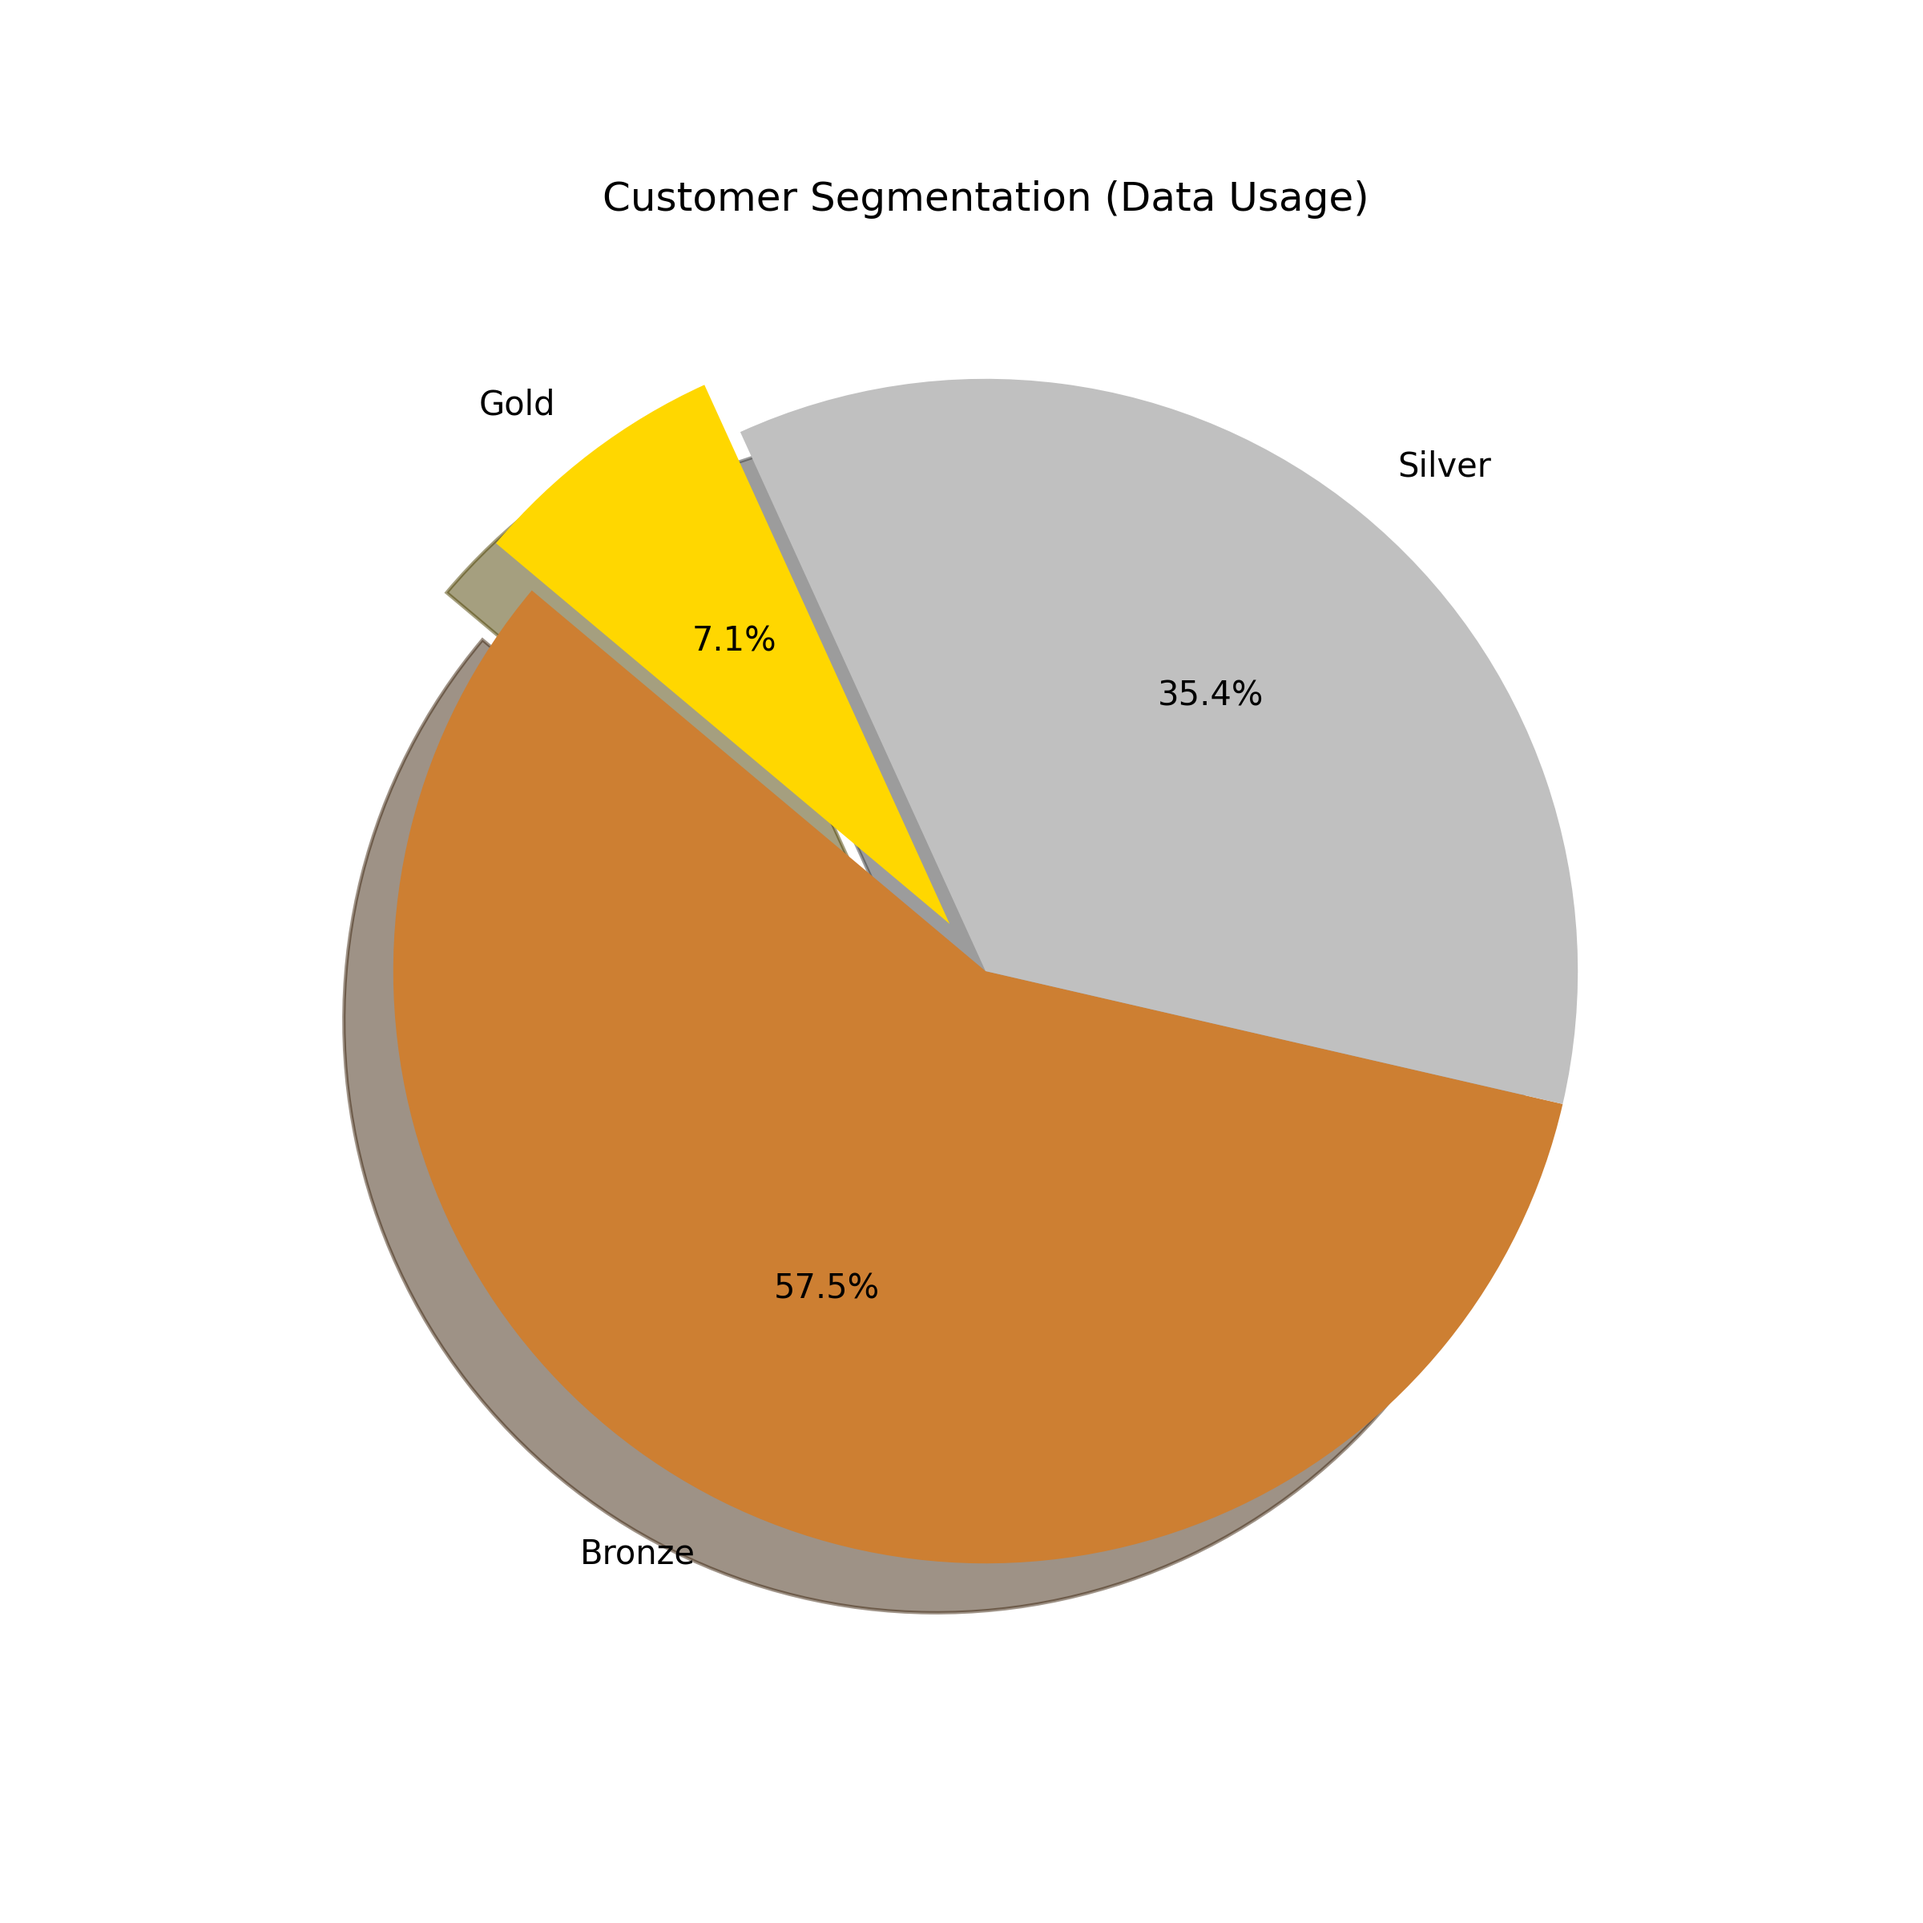
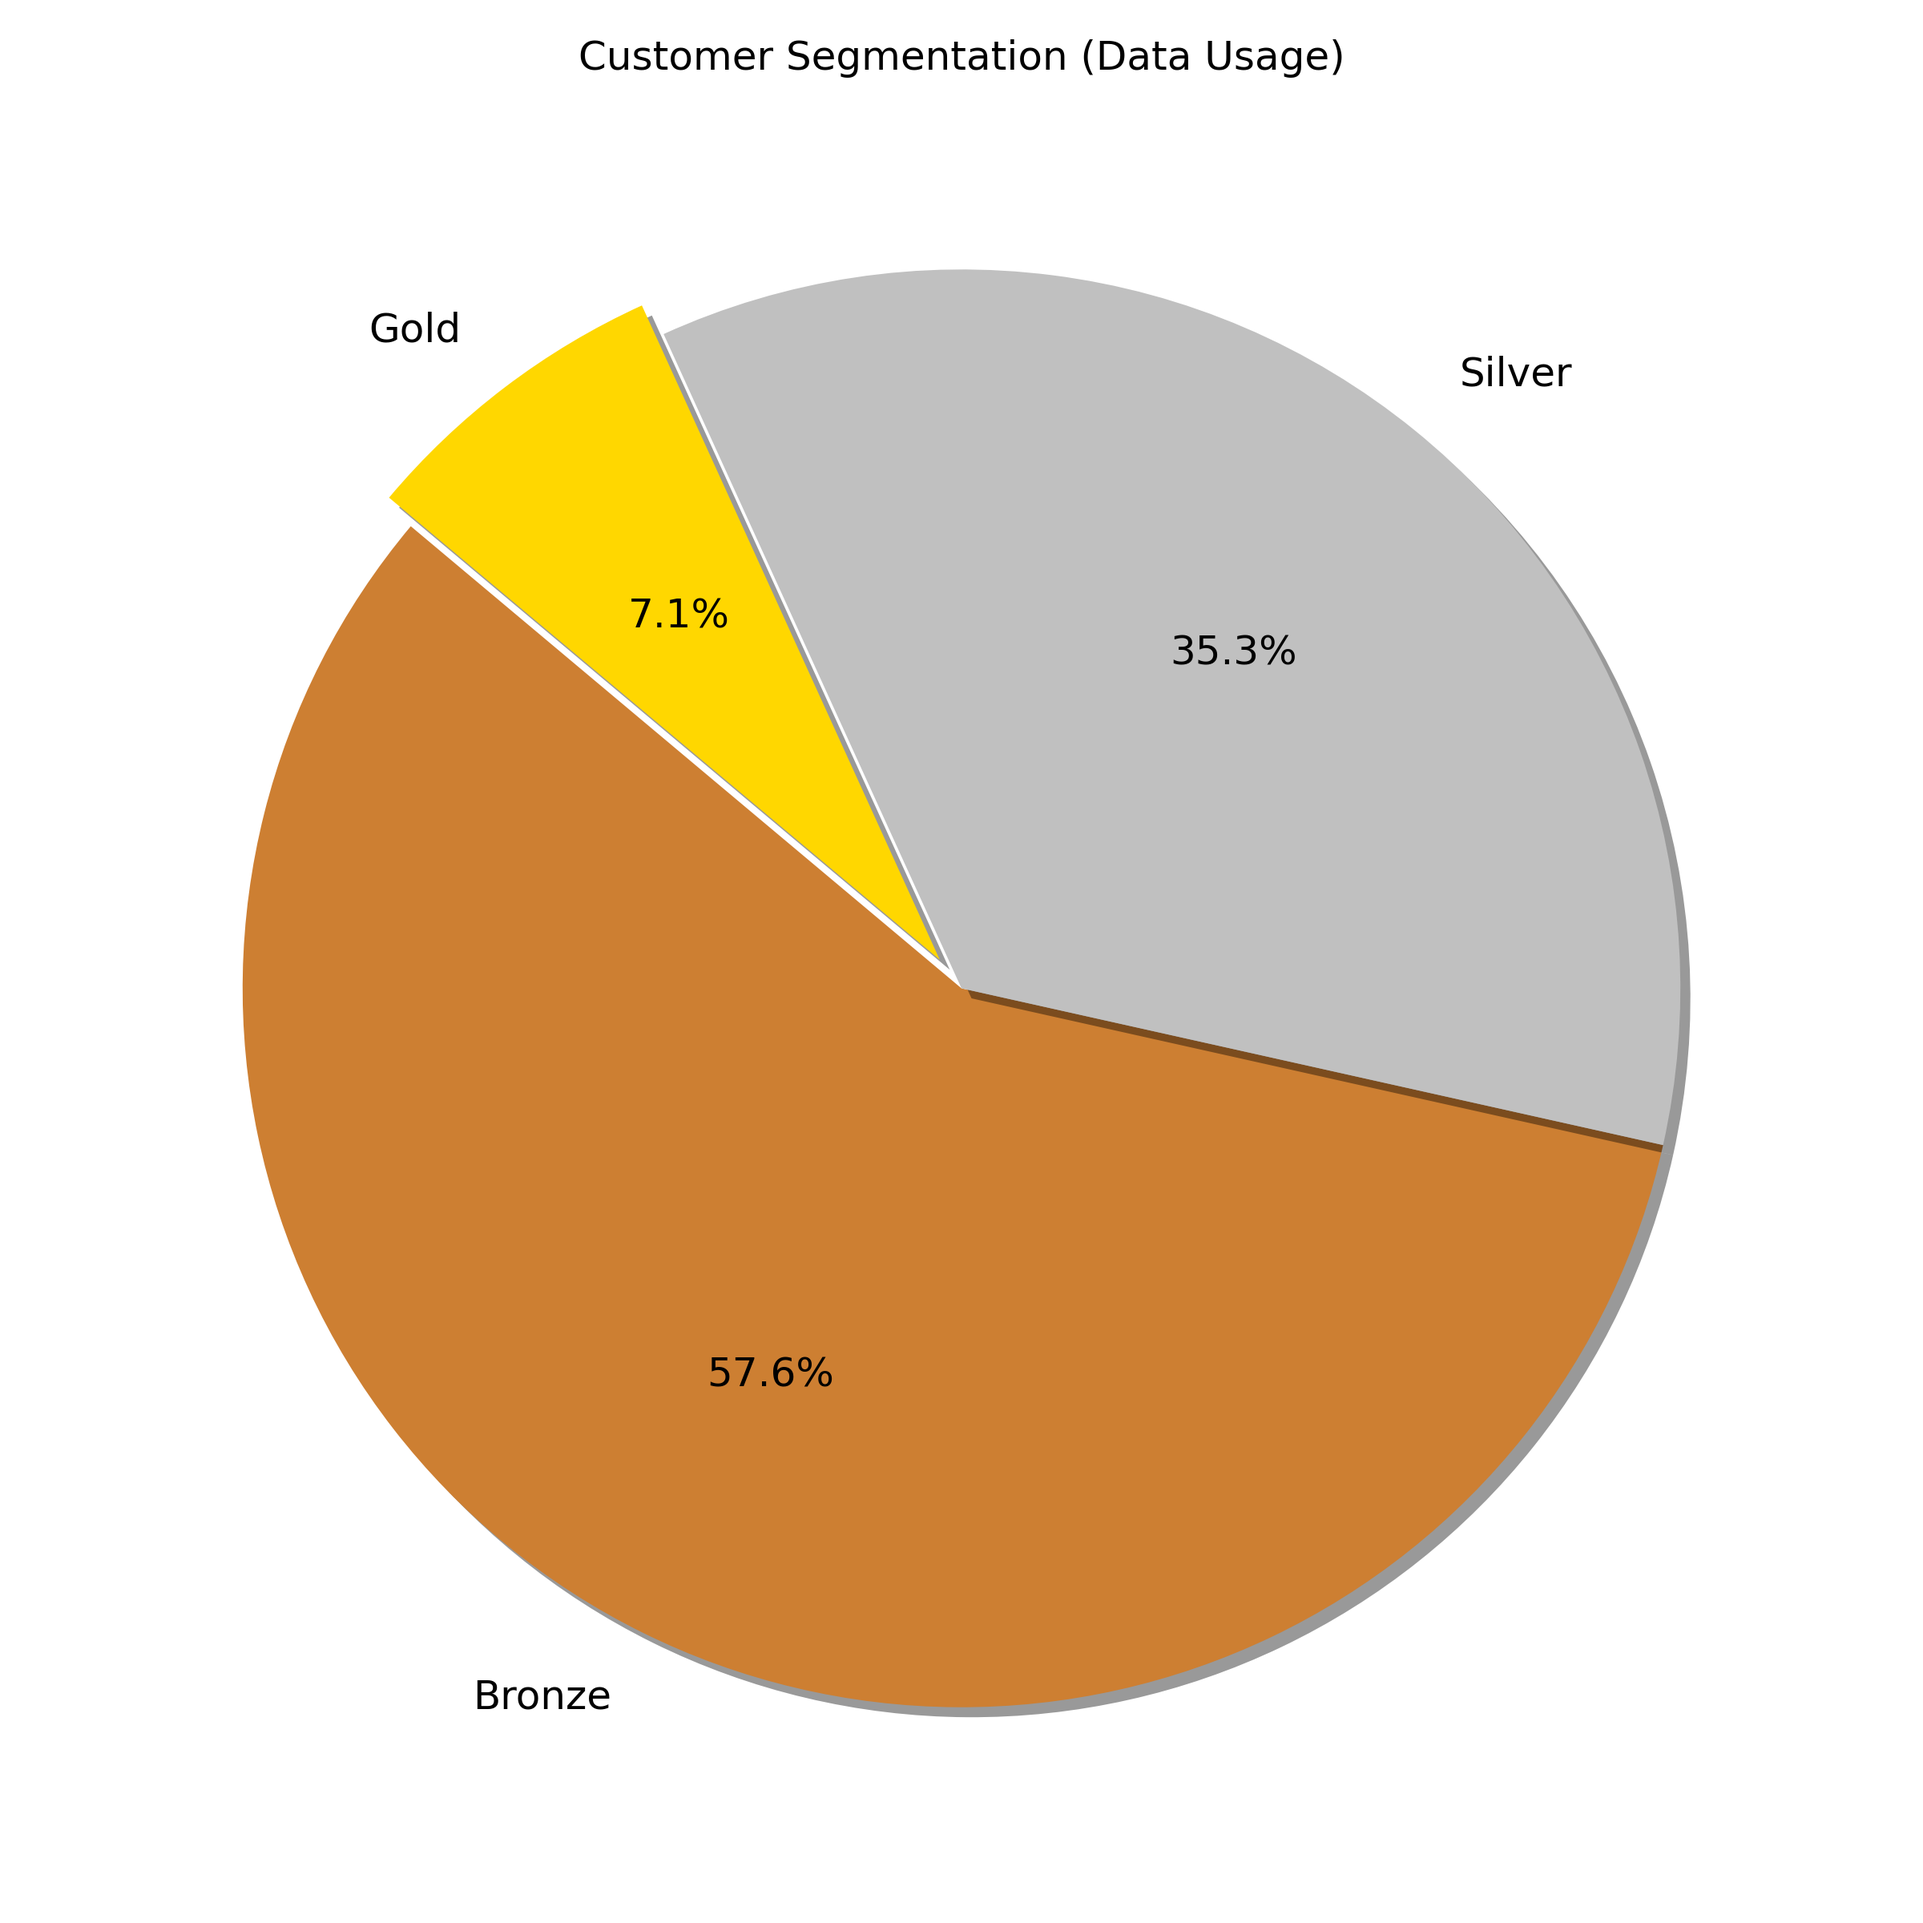
Final version with ignore rules

diff --git a/main.py b/main.py
@@ -1,7 +1,7 @@
 import pandas as pd
 import matplotlib.pyplot as plt
 import matplotlib.ticker as mticker
-import time
+import matplotlib.patheffects as path_effects
 import numpy as np
 
 RED = '\033[91m'
@@ -27,6 +27,7 @@ def clean_data(df):
     initial_count = len(df)
     df_clean = df.dropna()
     print(f"Removed {initial_count - len(df_clean)} rows with empty data.")
+
     df_negative_zero = df_clean[df_clean['Duration'] <= 0]
     df_clean = df_clean[df_clean['Duration'] > 0]
     print(f"Removed {len(df_negative_zero)} records with negative or zero duration seconds.")
@@ -54,7 +55,7 @@ def analyze_data(df):
 
     # --- اصلاح مهم: حذف Locator ثابت و استفاده از Formatter هوشمند ---
     # این تابع اعداد محور عمودی را کوتاه میکند (مثلاً 1000000 را تبدیل به 1M میکند)
-    ax.yaxis.set_major_formatter(mticker.FuncFormatter(lambda x,pos: f'{x*1e-6:.0f}M'))
+    ax.yaxis.set_major_formatter(mticker.FuncFormatter(lambda x, pos: f'{x * 1e-6:.0f}M'))
     # خط زیر حذف شد چون باعث کرش سیستم در دادههای میلیونی میشد:
     # ax.yaxis.set_major_locator(mticker.MultipleLocator(50000))
     ax.yaxis.set_major_locator(mticker.MultipleLocator(5000000))
@@ -99,9 +100,10 @@ def analyze_peak_hours(df):
 
     busy_hour = hourly_traffic.idxmax()
     max_calls = hourly_traffic.max()
+    min_calls = hourly_traffic.min()
 
-    print(f"📈 Busiest Hour of the day: {RED}{busy_hour}:00 to {busy_hour + 1}:00{END}")
-    print(f"   Total calls in this hour: {max_calls}")
+    print(f"📈 Busiest Hour: {RED}{busy_hour}:00{END} (Calls: {max_calls})")
+    print(f"📉 Quietest Hour: {min_calls} calls")
 
     print("Drawing traffic chart...")
     plt.figure(figsize=(10, 6))
@@ -110,9 +112,14 @@ def analyze_peak_hours(df):
     plt.title('Network Traffic by Hour (24h) - 1 Million Records')
     plt.xlabel('Hour of Day (0-23)')
     plt.ylabel('Number of Calls')
-    plt.ylim(bottom=40000)
 
-    # فرمتدهی محور Y برای تعداد تماسهای زیاد (مثلاً 40K)
+    data_range = max_calls - min_calls
+    if data_range > 0:
+        dynamic_bottom = max(0, min_calls - (data_range * 0.2))
+        plt.ylim(bottom=dynamic_bottom)
+    else:
+        plt.ylim(bottom=0)
+
     plt.gca().yaxis.set_major_formatter(mticker.StrMethodFormatter('{x:,.0f}'))
 
     plt.grid(True, linestyle='--', alpha=0.7)
@@ -139,27 +146,44 @@ def segment_customers(df):
     df['Segment'] = np.select(conditions, labels, default='Unknown')
     segment_counts = df['Segment'].value_counts()
 
-    print("Customer Segments Breakdown:")
-    print(segment_counts)
-
+    # رنگهای ملایمتر و مدرنتر
     color_map = {
-        'Gold': '#FFD700',  # کد دقیق رنگ Gold استاندارد
-        'Silver': '#C0C0C0',  # کد دقیق رنگ Silver استاندارد
-        'Bronze': '#CD7F32'  # کد رنگ برنزی (که اسم ندارد)
+        'Gold': '#FFD700',  # طلایی
+        'Silver': '#C0C0C0',  # نقرهای
+        'Bronze': '#CD7F32'  # برنزی
     }
+    safe_colors = [color_map.get(label, 'grey') for label in segment_counts.index]
 
-    safe_colors = [color_map[label] for label in segment_counts.index]
+    # برجستهسازی Gold
+    explode = [0.05 if label == 'Gold' else 0 for label in segment_counts.index]
 
     print("Drawing segmentation chart...")
     plt.figure(figsize=(8, 8))
-    explode = [0.1 if label == 'Gold' else 0 for label in segment_counts.index]
 
-    segment_counts.plot(kind='pie', autopct='%1.1f%%', startangle=140,
-                        colors=safe_colors, explode=explode, shadow=True)
+    # نکته ۱: shadow=False میکنیم چون میخواهیم سایه دستی بسازیم
+    wedges, texts, autotexts = plt.pie(
+        segment_counts,
+        labels=segment_counts.index,
+        autopct='%1.1f%%',
+        startangle=140,
+        colors=safe_colors,
+        explode=explode,
+        shadow=False,  # سایه پیشفرض را خاموش کنید
+        textprops={'fontsize': 12}
+    )
+
+    # نکته ۲: اضافه کردن سایه دستی و نرم به هر تکه (Wedge)
+    for w in wedges:
+        w.set_path_effects([
+            path_effects.SimplePatchShadow(offset=(3, -3), alpha=0.4, shadow_rgbFace='black'),
+            path_effects.Normal()
+        ])
 
     plt.title('Customer Segmentation (Data Usage)')
     plt.ylabel('')
-    plt.savefig('customer_segment.png', dpi=300)  # ذخیره با کیفیت بالا
+
+    plt.tight_layout()
+    plt.savefig('customer_segment.png', dpi=300)
     print(f"{GREEN}   -> Chart saved as 'customer_segment.png'{END}")
     plt.show()
 
@@ -167,17 +191,21 @@ def segment_customers(df):
 if __name__ == "__main__":
     print(f'\n{RED}--- START PROGRAM ---{END}\n')
     print(f"Processing File: {InputFile}...")
-    start_time = time.time()
 
     try:
         raw_data = load_data(InputFile)
-        clean_dataframe = clean_data(raw_data)
-        analyze_data(clean_dataframe)
-        detect_fraud(clean_dataframe)
-        analyze_peak_hours(clean_dataframe)
-        segment_customers(clean_dataframe)
 
-        print(f"\n✅{ITALIC} All analysis completed successfully.{END}")
+        if raw_data is not None:
+            clean_dataframe = clean_data(raw_data)
+            analyze_data(clean_dataframe)
+            detect_fraud(clean_dataframe)
+            analyze_peak_hours(clean_dataframe)
+            segment_customers(clean_dataframe)
+
+            print(f"\n✅{ITALIC} All analysis completed successfully.{END}")
+        else:
+            print(f"\n❌{RED} Execution stopped: Input file is missing.{END}")
+            print(f"   Please run 'data_generator.py' first.")
 
     except Exception as e:
         print(f"\n❌{RED} Critical Error: {e}{END}")

diff --git a/data_generator.py b/data_generator.py
@@ -1,6 +1,5 @@
 import pandas as pd
 import numpy as np
-import random
 from datetime import datetime, timedelta
 
 RED = '\033[91m'
@@ -9,45 +8,55 @@ ITALIC = '\033[3m'
 END = '\033[0m'
 
 
-def generate_large_dataset(filename, num_records=10000):
+def generate_large_dataset(filename, num_records=1000000):
     print(f"\n--- {RED}Starting data generation for {num_records} records ---{END}")
 
     end_date = datetime.now()
     start_date = end_date - timedelta(days=30)
 
-    date_list = []
-    for _ in range(num_records):
-        random_days = random.randint(0, 30)
-        random_seconds = random.randint(0, 86400)
-        random_date = start_date + timedelta(days=random_days, seconds=random_seconds)
-        date_list.append(random_date)
+    start_ts = start_date.timestamp()
+    end_ts = end_date.timestamp()
 
+    print("Generating Dates...")
+    random_timestamps = np.random.uniform(start_ts, end_ts, num_records)
+    dates = pd.to_datetime(random_timestamps, unit='s')
+
+    # 3. تولید نوع تماس (با احتمالات وزندار)
+    print("Generating Call Types...")
     types = ['Internal', 'International', 'Roaming', 'Emergency']
-    call_types = random.choices(types, weights=[60, 30, 5, 5], k=num_records)
+    call_types = np.random.choice(types, size=num_records, p=[0.60, 0.30, 0.05, 0.05])
+
+    print("Generating Durations...")
     durations = np.random.randint(10, 3600, size=num_records)
 
-    data_usage = []
-    for _ in range(num_records):
-        if random.random() < 0.3:
-            data_usage.append(0.0)
-        else:
-            data_usage.append(round(random.uniform(5, 500), 2))
+    print("Generating Data Usage...")
+    usage_raw = np.random.uniform(5, 500, num_records)
+    zero_mask = np.random.random(num_records) < 0.3
 
+    data_usage = np.where(zero_mask, 0.0, usage_raw)
+    data_usage = np.round(data_usage, 2)
+
+    print("Creating DataFrame...")
     df = pd.DataFrame({
-        'Date': date_list,
+        'Date': dates,
         'Duration': durations,
         'Data_Usage': data_usage,
         'Call_Type': call_types,
     })
 
-    random_indices = np.random.choice(df.index, 5, replace=False)
+    print("Injecting Noise (Errors)...")
+    random_indices = np.random.choice(df.index, 20, replace=False)
     df.loc[random_indices, 'Duration'] = -100
 
-    random_indices_null = np.random.choice(df.index, 5, replace=False)
+    random_indices_null = np.random.choice(df.index, 20, replace=False)
     df.loc[random_indices_null, 'Data_Usage'] = np.nan
 
+    print(f"Saving to CSV ({filename})...")
     df.to_csv(filename, index=False)
+
+    file_size_mb = len(df) * 50 / (1024 * 1024)  # تخمین تقریبی حجم
     print(f"\nSUCCESSFULLY CREATED {GREEN}'{filename}'{END} WITH {GREEN}{len(df)}{END} RECORDS.")
+    print(f"{ITALIC}File size is approx {file_size_mb:.1f} MB{END}")
     print(f"\n{RED}--- Data generation complete ---{END}")
 
 
